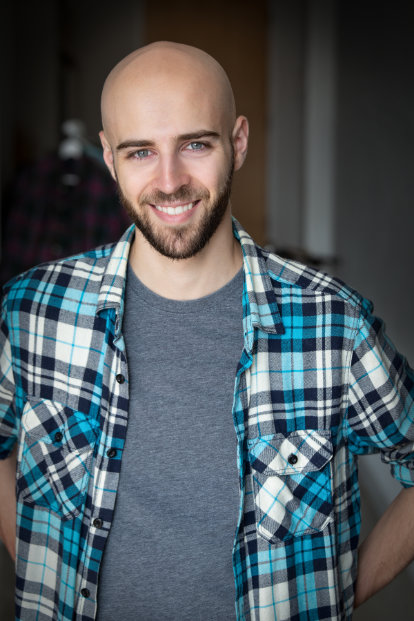
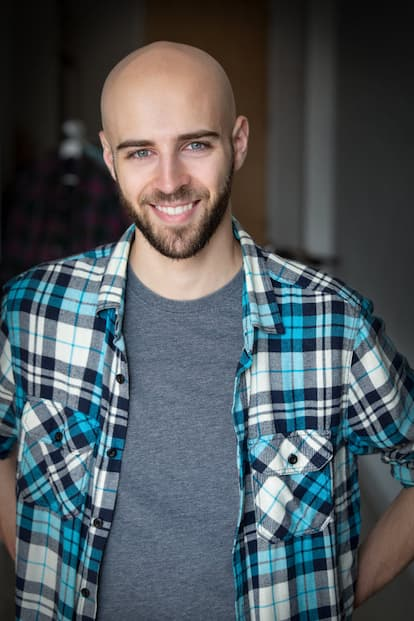
Added aspect-ratio to slide images

diff --git a/src/components/hero.svelte b/src/components/hero.svelte
@@ -68,10 +68,12 @@
 			<div class="grid max-h-fit max-w-fit flex-shrink-0 snap-center transition duration-[600ms]">
 				<picture class="col-start-1 row-start-1">
 					<source
+						class="aspect-16/9"
 						srcset={`/images/hero/thomas-fournier-1280x720-${slide.id}.jpg, /images/hero/thomas-fournier-1024x576-${slide.id}.jpg 0.8x, /images/hero/thomas-fournier-768x432-${slide.id}.jpg 0.6x`}
 						media="(min-width: 640px)"
 					/>
 					<img
+						class="aspect-4/6"
 						srcset={`/images/hero/thomas-fournier-640x960-${slide.id}.jpg 640w, /images/hero/thomas-fournier-414x621-${slide.id}.jpg 414w`}
 						src={`/images/hero/thomas-fournier-640x960-${slide.id}.jpg`}
 						alt="Thomas Fournier headshot"
